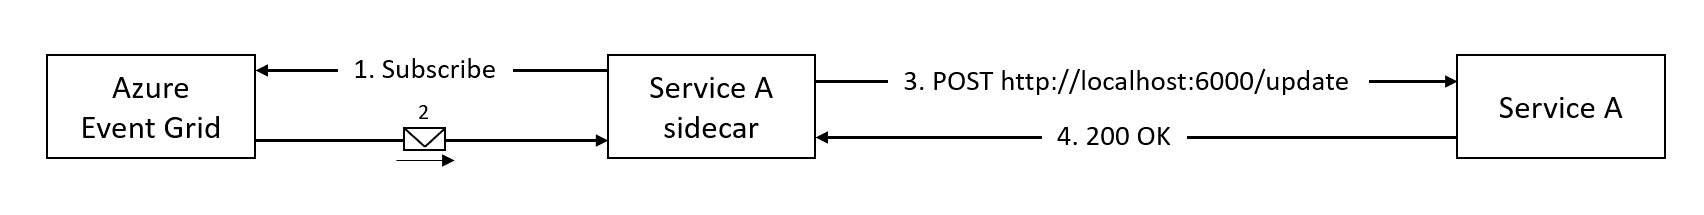
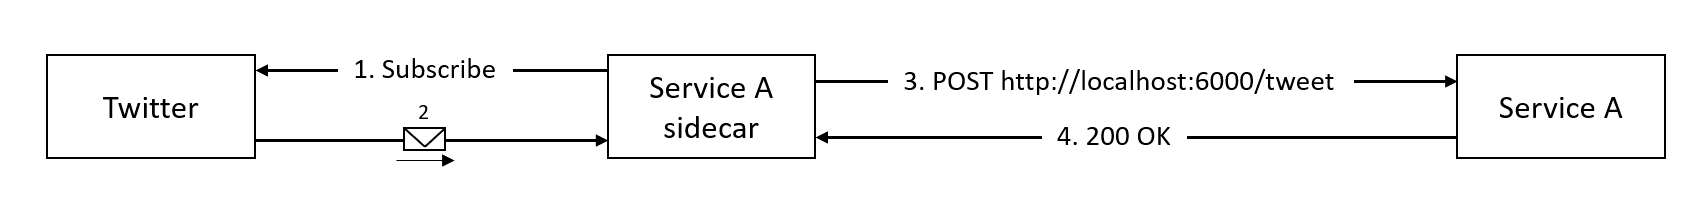
Revise 'how it works' sample

Changed region(s): [[0.0311, 0.3628, 0.1555, 0.6419], [0.7465, 0.3349, 0.8087, 0.4186]]

diff --git a/docs/architecture/dapr-for-net-developers/bindings-buildingblock.md b/docs/architecture/dapr-for-net-developers/bindings-buildingblock.md
@@ -7,7 +7,7 @@ ms.date: 10/18/2020
 
 # The Resource bindings building block
 
-On of the appeals of the highly popular serverless offerings by the different cloud vendors is its reactive nature. Messages come in from all sorts of different systems that trigger certain business logic. This business logic will often yield new messages that it subsequently needs to publish using another messaging system.
+One of the appeals of the highly popular serverless offerings by the different cloud vendors is its reactive nature. Messages come in from various systems that trigger certain business logic. This business logic will often yield new messages that it subsequently needs to publish using another messaging system.
 
 Dapr supports building applications that use different inputs and outputs with resource bindings.
 
@@ -15,7 +15,7 @@ Dapr supports building applications that use different inputs and outputs with r
 
 You might think that the reactive behavior described in the introduction seems similar to the Publish/Subscribe pattern we described in the [Publish/Subscribe section](publish-subscribe-buildingblock.md) in this chapter. Although there are similarities, there are also some significant differences between the two.
 
-Resource bindings offer a way to connect to different inputs and outputs without using any specific library or SDK in your application code. They also support more message sources and targets than the Publish/Subscribe building block (that primarily focuses on message brokers). For instance, an input binding exists for triggering an application when a tweet with a certain term in the text is published on Twitter. Also an output binding exists for sending an SMS using Twilio. Finally, an application can switch between bindings at runtime without any code changes, which is much harder to do with the Publish/Subscribe building block [TODO:CHALLENGE!!!].
+Resource bindings offer a way to connect to different inputs and outputs without using any specific library or SDK in your application code. They also support more message sources and targets than the Publish/Subscribe building block (that primarily focuses on message brokers). For instance, an input binding exists for triggering an application when a tweet with a certain term in the text is published on Twitter. Also, an output binding exists for sending an SMS using Twilio. Finally, an application can switch between bindings at runtime without any code changes, which is much harder to do with the Publish/Subscribe building block.
 
 The main focus of Dapr resource bindings is to make developers more productive by removing the hassle of learning specific APIs or SDKs for integrating with all sorts of different messaging systems.
 
@@ -25,28 +25,48 @@ As stated, you don't need an SDK or library to use resource bindings. The Dapr s
 
 ### Input bindings
 
-When you configure an input binding for your application, you basically couple a public HTTP endpoint that your application provides to a particular external trigger. Here is an example:
+When you configure an input binding for your application, you basically couple a public HTTP endpoint that your application provides to a particular external trigger. Here is an example of how this works:
 
 ![Input binding](media/bindings-input.png)
 
 > In the example, the application handles HTTP calls on port 6000.
 
-1. The Dapr sidecar picks up the binding configuration and subscribes to changes in the configured event source. In the example, the event source is an Azure Event Grid.
-2. When an event is published to the Event Grid, the Dapr sidecar consumes it.
-3. The Dapr sidecar invokes the configured endpoint on your application. In the example, this is an HTTP POST on the `/update` endpoint of the application. Because it is an HTTP POST, also the payload of the event is passed in.
+1. The Dapr sidecar picks up the binding configuration and subscribes to events that occur in the configured event source. In the example, the event source is Twitter. We will dive into binding configuration in more detail in the *Components* section.
+2. When a Tweet that matches a configured query is published on Twitter, the Dapr sidecar consumes it.
+3. The Dapr sidecar invokes the configured endpoint on your application. In the example, this is an HTTP POST on the `/tweet` endpoint of the application. The endpoint is equal to the name of the binding specified in the configuration. Because it is an HTTP POST, also the JSON payload of the event is passed in.
 4. After handling the trigger, your application returns an HTTP status code `200 OK`.
 
-An alternative scenario is that something goes wrong while your application is handling the trigger. In that case, you can return an HTTP status code other than `200 OK` (for instance `500 Error`). If the binding offers at least once delivery guarantees, the Dapr sidecar will retry the trigger when that happens. Check out [the documentation of the different bindings](https://github.com/dapr/docs/tree/master/concepts/bindings) to see whether they offer at least once or exactly once delivery guarantees.
+Here is an example of an ASP.NET Core controller that handles the call triggered by the Twitter binding:
 
-We will get back to how to configure bindings when we explain binding components.
+```csharp
+[ApiController]
+public class SomeController : ControllerBase
+{
+
+    ...
+
+    [HttpPost("/tweet")]
+    public ActionResult Post(JsonElement data)
+    {
+        // handle tweet
+
+        ...
+
+        // acknowledge message
+        return Ok();
+    }
+}
+```
+
+Notice that the route for the method is equal to the name specified in the binding configuration.
+
+An alternative scenario is that something goes wrong while your application is handling the trigger. In that case, you can return an HTTP status code other than `200 OK` (for instance `500 Error`). If the binding offers at least once delivery guarantees, the Dapr sidecar will retry the trigger when that happens. Check out [the documentation of the different bindings](https://github.com/dapr/docs/tree/master/concepts/bindings) to see whether they offer at least once or exactly once delivery guarantees.
 
 ### Output bindings
 
 When you configure an output binding for your application, you can use it by invoking the bindings API on the Dapr sidecar of your application. Here is an example:
 
 ![Output binding](media/bindings-output.png)
-
-> In the example, the Dapr sidecar is configured to handle HTTP calls on port 50002.
 
 1. Your application invokes the `/v1.0/bindings/sms` endpoint on the Dapr sidecar. In this case, it uses an HTTP POST to invoke the API. It is also possible to use gRPC.
 2. The Dapr sidecar calls the external messaging system to send the message. The message will contain the payload of the HTTP call.
@@ -76,9 +96,9 @@ private async Task SendSMSAsync(IHttpClientFactory clientFactory)
 }
 ```
 
-As you can see in the example, the code uses no specific library or SDK. Just a plain `HttpClient` to do an HTTP POST. We use the HTTP port that is used by the Dapr sidecar (in this case the default HTTP port `3500`).
+As you can see in the example, the code uses no specific library or SDK. Just a plain `HttpClient` to do an HTTP POST. We use the HTTP port that is used by the Dapr sidecar (in this case, the default HTTP port `3500`).
 
-The structure of the payload that you use will differ per binding. In this case, the payload contains a `data` part with a subject and message. For other bindings, this will be different. For some bindings there also is a metadata part that contains several fields (as we will see in the eShopOnDapr example later in this section). Each payload must also contain an `operation` field. In the example we use the `create` operation. Each binding implementer determines which operations the binding supports. Common commands are:
+The structure of the payload that you use will differ per binding. In this case, the payload contains a `data` part with a subject and message. For other bindings, this will be different. For some bindings, there is also a metadata part that contains several fields (as we will see in the eShopOnDapr example later in this section). Each payload must also contain an `operation` field. In the example, we use the `create` operation. Each binding implementer determines which operations the binding supports. Common commands are:
 
 - create
 - get
@@ -89,7 +109,9 @@ The documentation of the binding describes the possible operations and how to in
 
 ### Components
 
-Resource bindings are implemented by components. You configure bindings using a component configuration file. Here's an example for a Twitter binding:
+Resource bindings are implemented by components. Bindings are contributed by the community and are written in Go. So if you need to integrate with some external messaging system for which no Dapr binding exists yet, you can create one yourself. Check out the [Dapr components-contrib repo](https://github.com/dapr/components-contrib) to see how you can contribute a binding.
+
+You configure bindings using a component configuration file. Here's an example configuration for the Twitter binding:
 
 ```yaml
 apiVersion: dapr.io/v1alpha1
@@ -112,11 +134,11 @@ spec:
     value: "dapr" # your search query, required
 ```
 
-Each binding configuration contains a general `metadata` part with a `name` and `namespace` field. Dapr will use the specified name to determine the endpoint to invoke on your application when an event occurs. So in the example configuration, Dapr will invoke `/twitter-mention`.
+Each binding configuration contains a general `metadata` part with a `name` and `namespace` field. As stated, Dapr will use the specified name to determine the endpoint to invoke on your application when an event occurs. So in the example configuration, Dapr will invoke `/twitter-mention`.
 
-In the `spec` part, you specify the type of the binding and binding specific `metadata`. In the example you can see that you need to specify the credentials for accessing a Twitter account using its API. The metadata can differ based on whether you configure an input or an output binding. For using the Twitter binding as an input binding, you need to specify the text to search for in tweets using the `query` field. Every time a tweet that contains the specified text is published on Twitter, the Dapr sidecar will invoke the `/twitter-mention` endpoint on your application.
+In the `spec` part, you specify the type of the binding and binding specific `metadata`. In the example, you can see that you need to specify the credentials for accessing a Twitter account using its API. The metadata can differ based on whether you configure an input or an output binding. For using the Twitter binding as an input binding, you need to specify the text to search for in tweets using the `query` field. Every time a tweet that contains text that matches the query is published on Twitter, the Dapr sidecar will invoke the `/twitter-mention` endpoint on your application. It will also deliver the contents of the Tweet
 
-Check out [the documentation of the different bindings](https://github.com/dapr/docs/tree/master/concepts/bindings) to get a complete and up to date list of the available bindings and their specific configuration settings.
+Check out [the documentation of the different bindings](https://github.com/dapr/docs/tree/master/concepts/bindings) to get a complete list of the available bindings and their specific configuration settings.
 
 ## Reference case: eShopOnDapr
 
